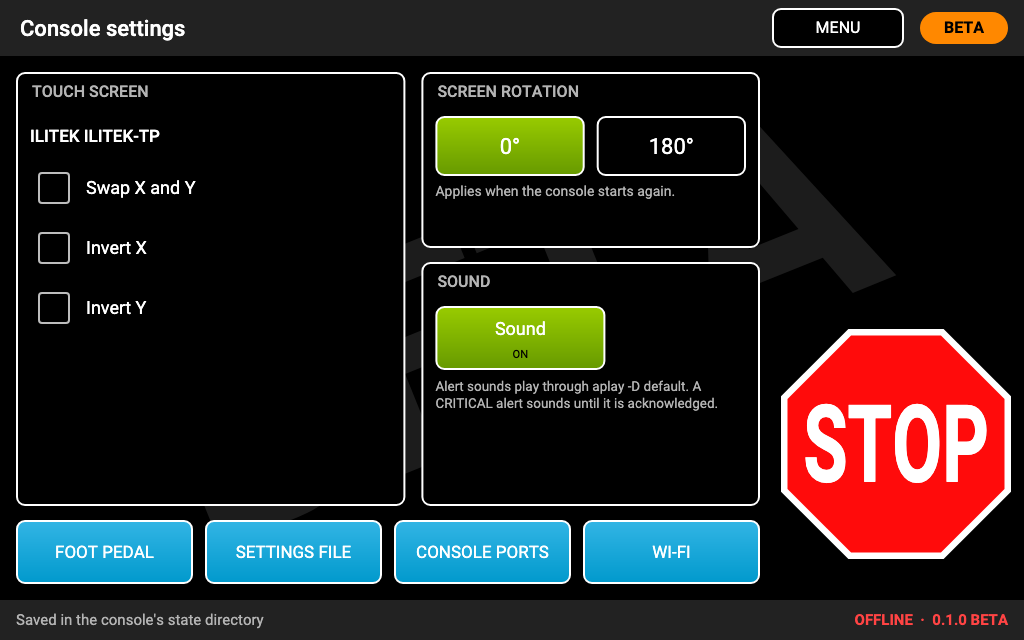
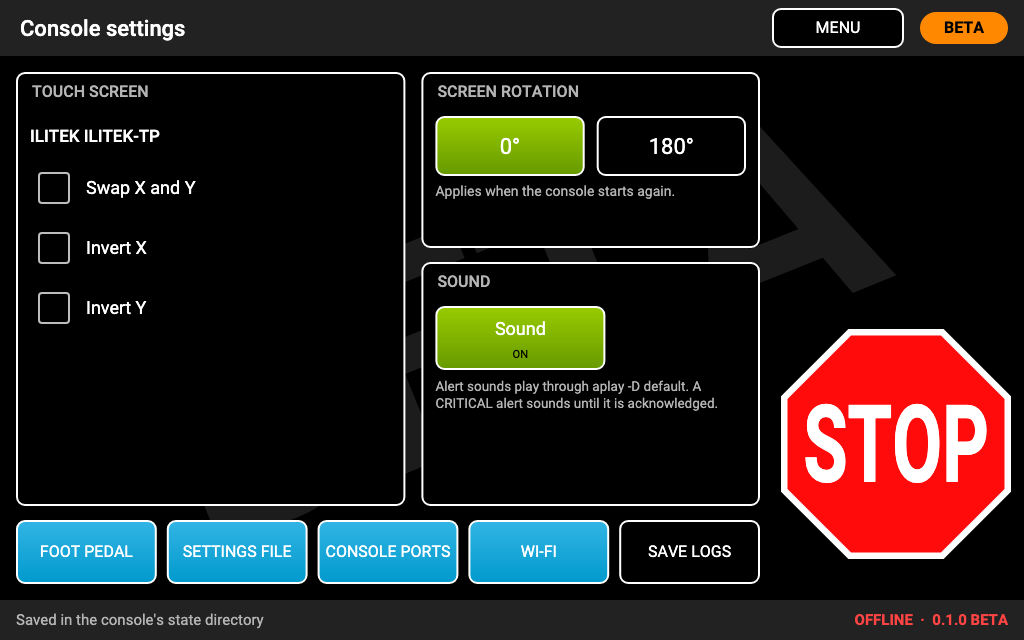
User guide: SAVE LOGS (console settings, after a critical alert, troubleshooting) and the bug form's saved-logs field

Changed region(s): [[0.0312, 0.8125, 0.75, 0.9375]]

diff --git a/docs/user-guide/troubleshooting.md b/docs/user-guide/troubleshooting.md
@@ -96,11 +96,30 @@ Open an [issue](https://github.com/Shane-Cotta/M7-Console/issues/new/choose) wit
 - the press model and firmware as the console shows them (the status bar on the press screen);
 - what you did, what happened, and **the exact text of any alert** (a photo of the screen is best);
 - whether the press stopped when it should have. **If it did not, say so in the first line**, and do not use M7
-  Console again until the problem is understood.
+  Console again until the problem is understood;
+- the name of the logs file, if you saved one (below).
+
+### Save logs
 
 The console keeps a detailed log of every session on the card, including a record of the last moments before each
-CRITICAL alert. There is no button to copy it to a USB stick yet (sticks are read-only on the console); if a log is
-needed, the issue will say how to get it, usually with a technician's help.
+CRITICAL alert. **SAVE LOGS** puts it, with the console's version, the press model and firmware and the recent
+alerts, into one file:
+
+- **CONSOLE SETTINGS → SAVE LOGS**, at any time; or
+- **SAVE LOGS** on the "Save the logs?" message the console shows after you close a CRITICAL alert with CONSOLE IS
+  OFF.
+
+It takes a few seconds; the console and STOP keep working meanwhile. It is not possible while a firmware update runs.
+When it is done, the console shows the file's name and where it was saved.
+
+![Logs saved: the file's name and where it was saved](../images/screen-alert-logs-saved.png)
+
+- The file is **kept on the console**. USB sticks are mounted read-only on the console, so it cannot be written to a
+  stick (the message says so). The console keeps the five newest.
+- Give the file's name in your bug report. If the file is needed, the issue will say how to get it off the console's
+  SD card (it needs a computer that can read the card's Linux partition, so usually a technician's help).
+- The file holds **no Wi-Fi password** and no other secret: the console leaves out its Wi-Fi settings and blanks
+  anything in the logs that looks like a password.
 
 ## For technicians
 

diff --git a/docs/user-guide/alerts.md b/docs/user-guide/alerts.md
@@ -33,11 +33,12 @@ press (for example station 5 on an Apex 10 Evolution). Do it before you continue
 
 A CRITICAL alert means the console cannot be sure the press is under control. Every CRITICAL alert ends with
 **"Switch off the console power now."** **Do it**, then tap **CONSOLE IS OFF** to close the alert. STOP stays
-tappable on it.
+tappable on it. Once it is closed, the console offers to **SAVE LOGS** for a bug report
+([Reporting a problem](troubleshooting.md#reporting-a-problem)).
 
 | Alert | What happened |
 |---|---|
-| **STOP NOT CONFIRMED** | The press did not confirm a STOP within about a second. The console reset the press controller through the USB cable. |
+| **STOP NOT CONFIRMED** | The press did not confirm a STOP within about a second, or the STOP could not reach the press at all. The console reset the press controller through the USB cable; the alert says whether that reset went out. |
 | **PRESS NOT ANSWERING** | The press did not answer RUN, SINGLE CYCLE or END CYCLE within about a second. With its motor fault line held, the press can step the motor without answering anything, not even STOP or the Remote Stop. The console reset the press controller. |
 | **PRESS KEPT MOVING** | The press moved after it reported a stop. The console sent STOP, and resets the controller if that STOP is not confirmed. |
 | **TOUCHSCREEN NOT WORKING** | The touch screen stopped responding: STOP on the screen cannot work. Use the remote stop, or switch off the console power if the press is moving. This alert closes with OK, and by itself when the touch screen is back. |

diff --git a/docs/user-guide/console-settings.md b/docs/user-guide/console-settings.md
@@ -1,9 +1,9 @@
 # Console settings
 
-**CONSOLE SETTINGS** on the home screen holds the settings of the console itself (not of the press), and links to
-**FOOT PEDAL**, **SETTINGS FILE** and **CONSOLE PORTS**.
+**CONSOLE SETTINGS** on the home screen holds the settings of the console itself (not of the press), links to
+**FOOT PEDAL**, **SETTINGS FILE**, **CONSOLE PORTS** and **WI-FI**, and has **SAVE LOGS**.
 
-![Console settings: touch screen, screen rotation, sound, and the FOOT PEDAL, SETTINGS FILE and CONSOLE PORTS buttons](../images/screen-settings.png)
+![Console settings: touch screen, screen rotation, sound, and the FOOT PEDAL, SETTINGS FILE, CONSOLE PORTS, WI-FI and SAVE LOGS buttons](../images/screen-settings.png)
 
 ## Touch screen
 
@@ -57,6 +57,11 @@ a stick in). Tap a file to see **what it would change** first; then **IMPORT** o
 - It is refused while the press runs or calibrates, or a firmware update runs.
 - An import **never bypasses a sensor**, never clears DO NOT OPERATE, and never arms the foot pedal. Remote Stop,
   Machine Guard and TorqueSense are switched ACTIVE at the next connection anyway.
+
+## Save logs
+
+**SAVE LOGS** saves the console's logs in one file for a bug report: see
+[Troubleshooting: Reporting a problem](troubleshooting.md#reporting-a-problem).
 
 ## Foot pedal and console ports
 
